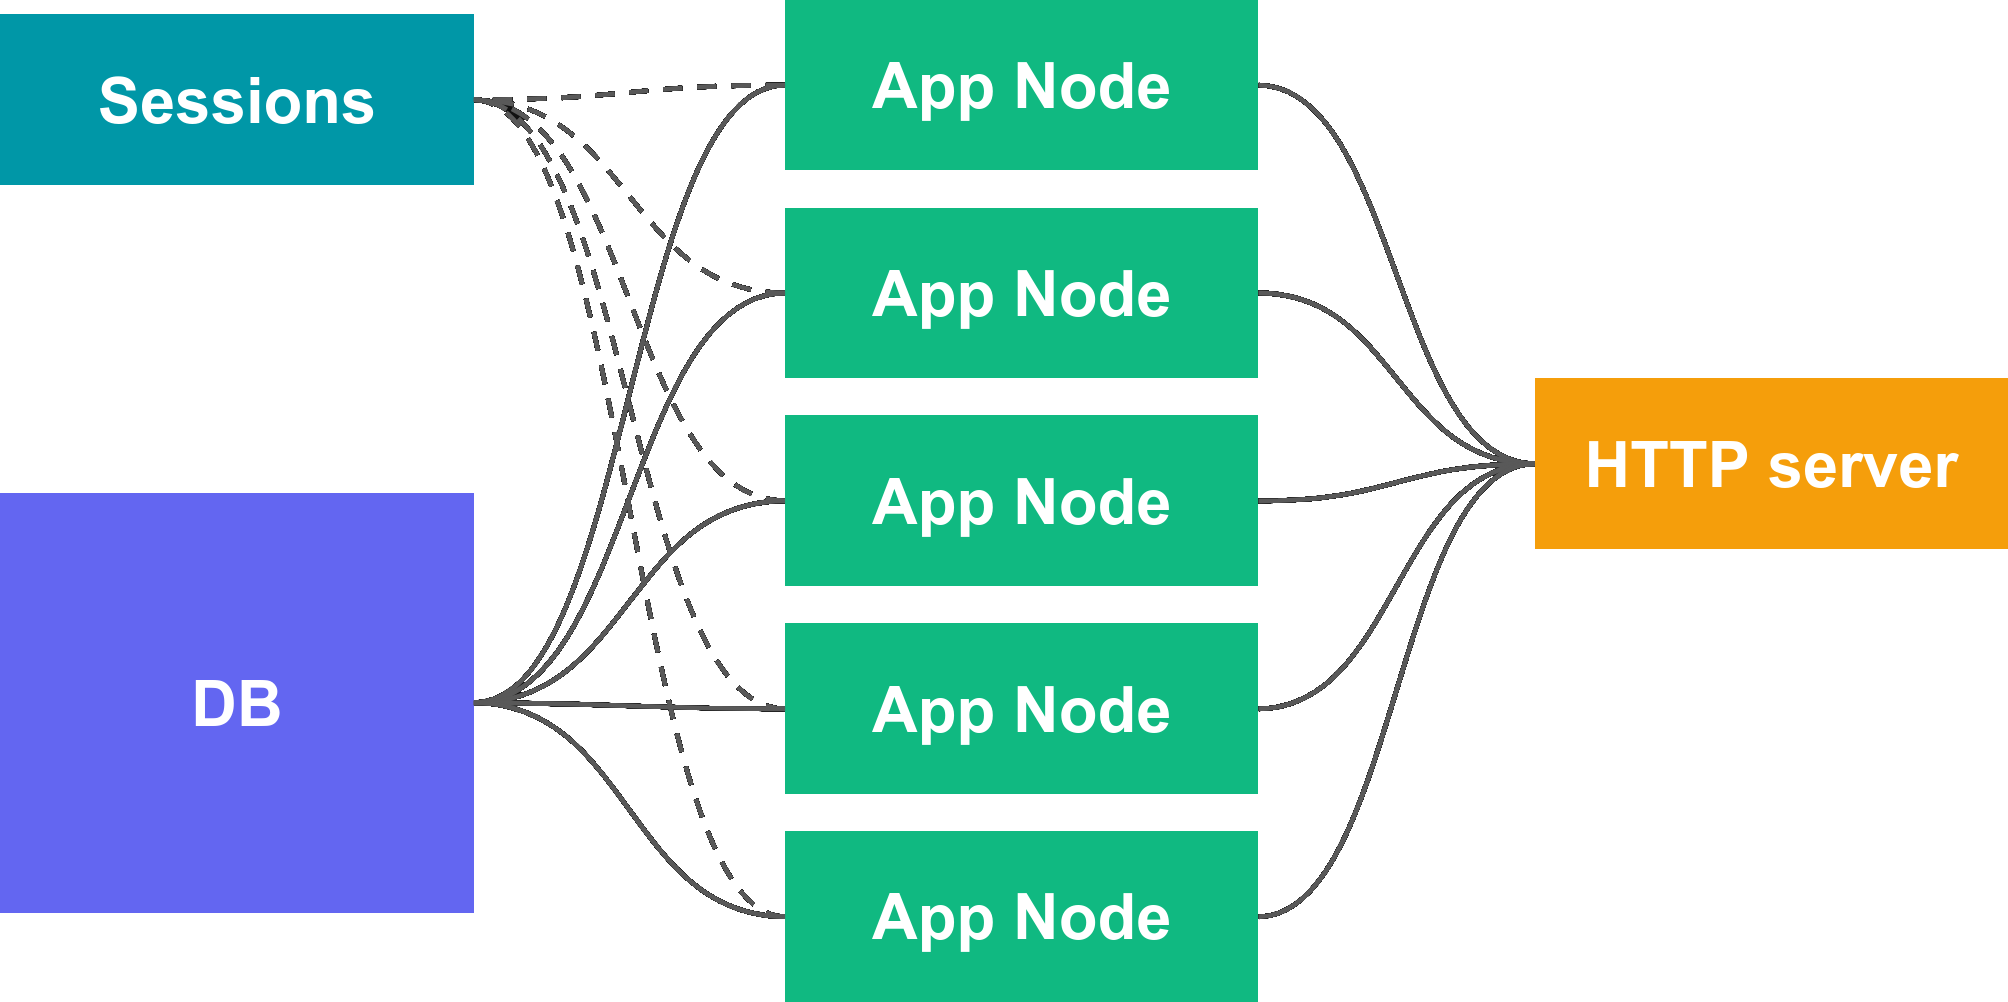
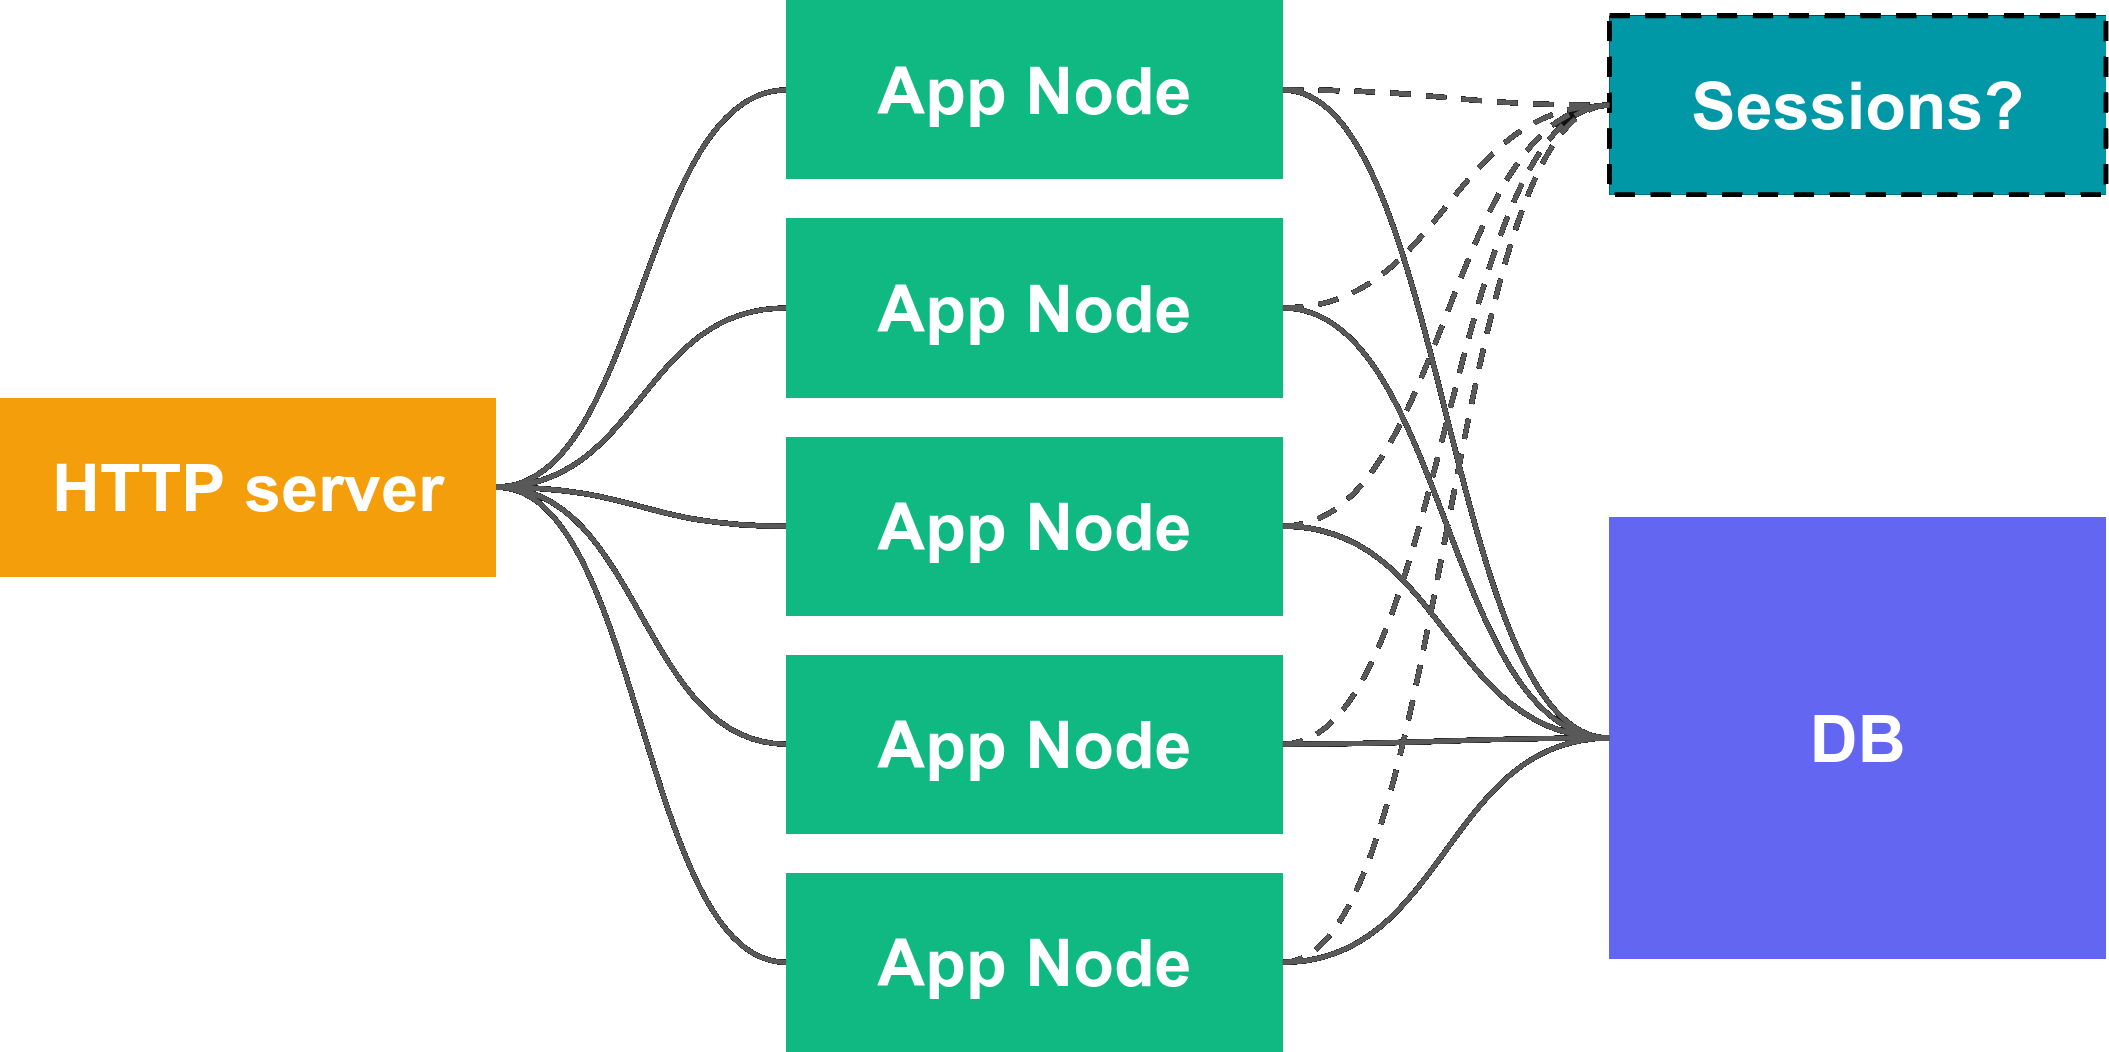
Style, clarifications

diff --git a/slides/scaling.html b/slides/scaling.html
@@ -550,8 +550,8 @@
                 <section>
                     <p>Solución ideal 2: <span style="color: #b0ed2b">en las cookies mismas</span>.</p>
                     <p class="fragment">✅ En lugar de que la cookie solo guarde un ID, guardamos todo lo que necesitamos.</p>
-                    <p class="fragment">✅ Tiene que estar encriptada!!</p>
-                    <p class="fragment">❌ Hay límites de cuánto pueden guardar.</p>
+                    <p class="fragment">✅ Tiene que estar firmada!!</p>
+                    <p class="fragment">❌ Hay límites de cuánto pueden guardar (4k) y siempre viajan (+red).</p>
                 </section>
 
                 <section>
